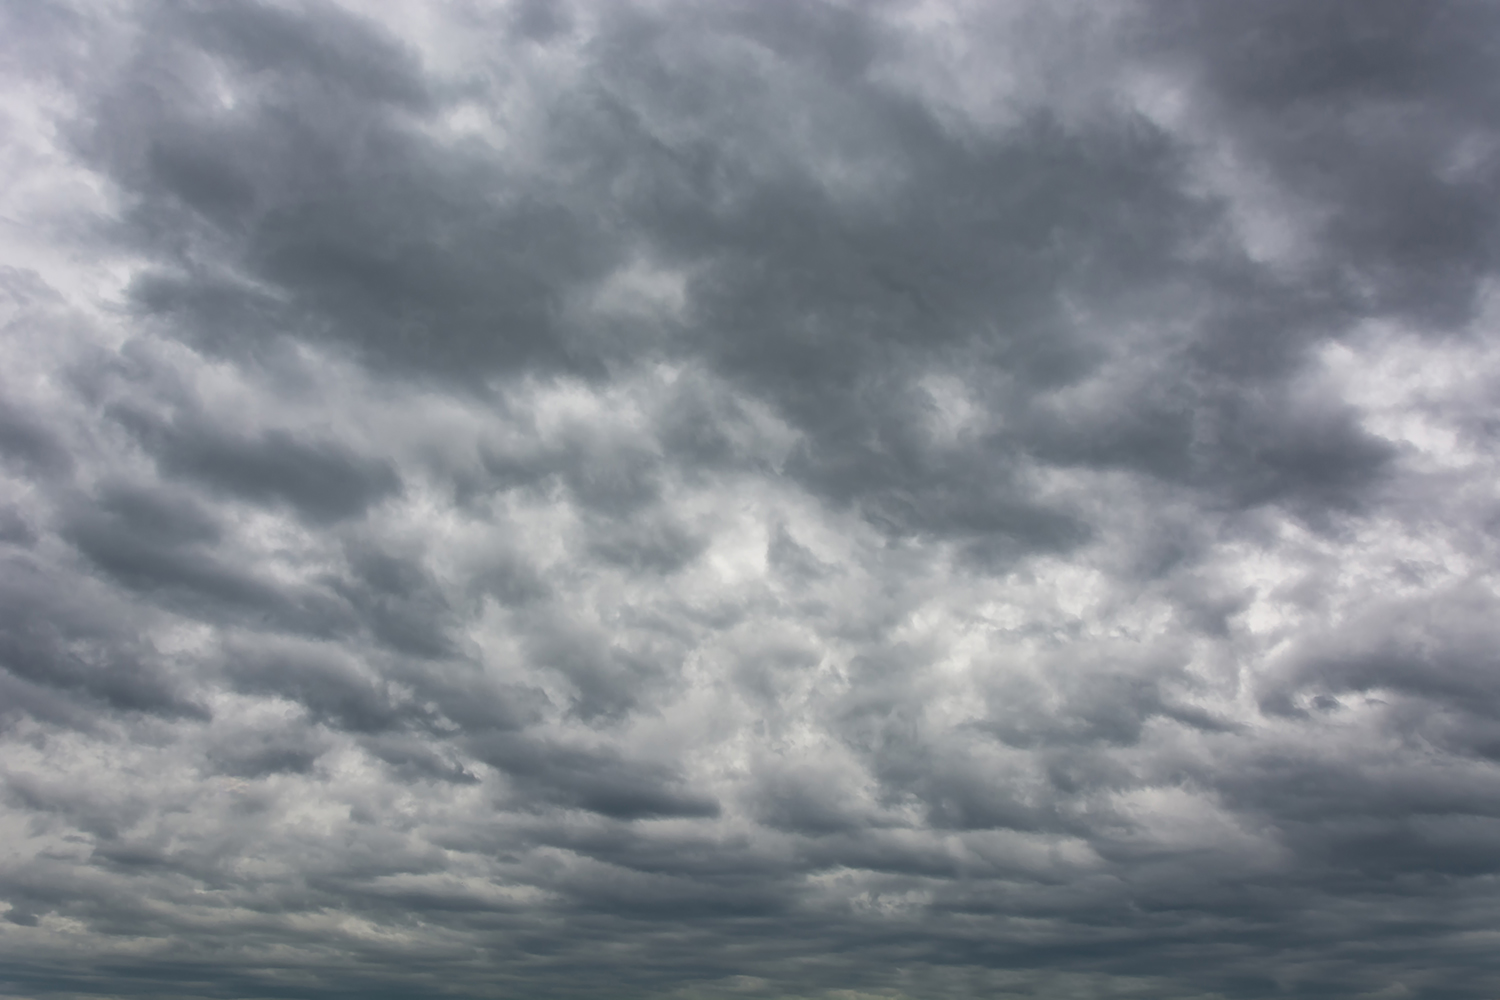
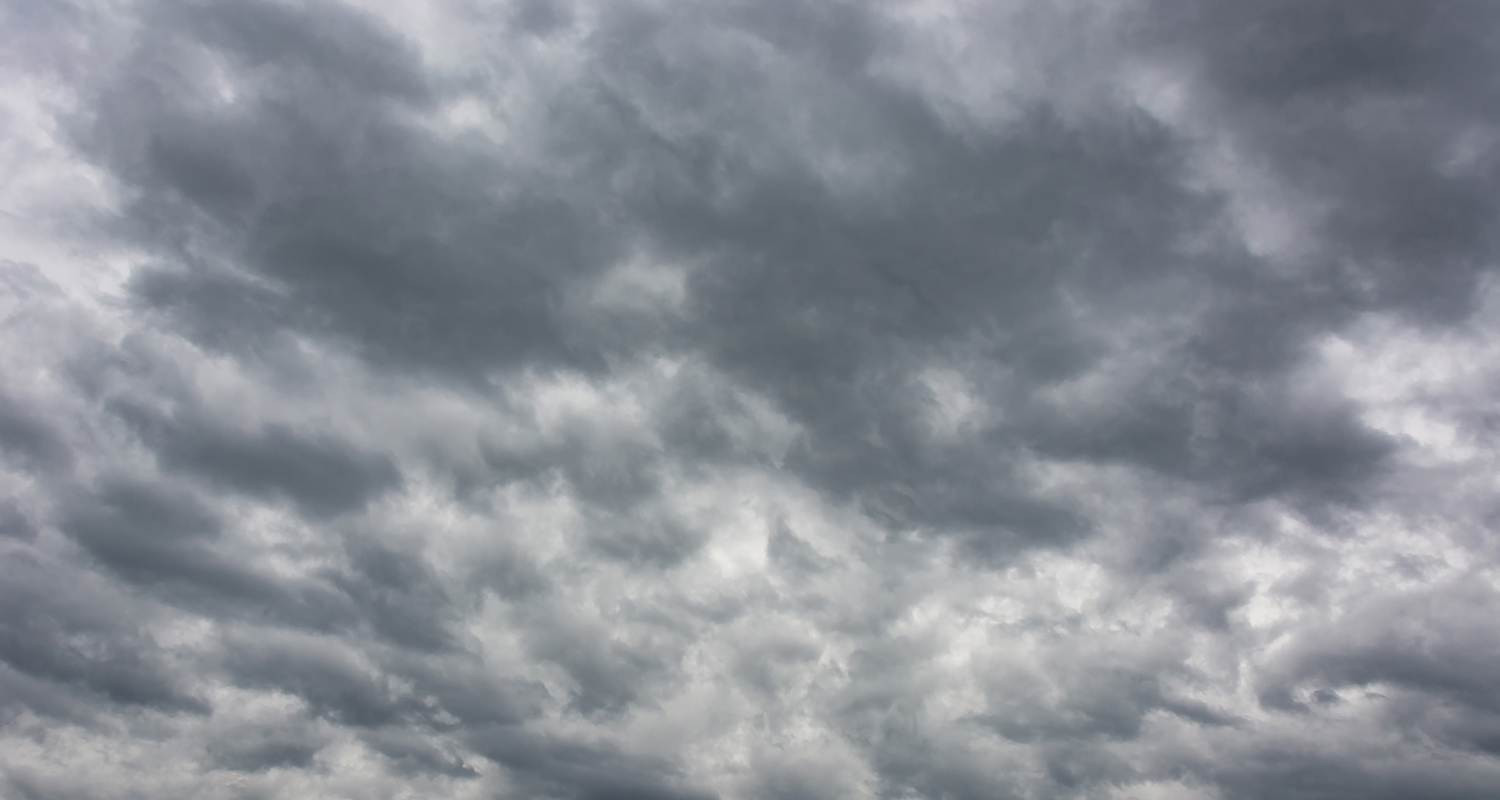
weather page data displayed and designed the page and dynamic image and background and animation

diff --git a/src/components/cityWeather/CityWeather.tsx b/src/components/cityWeather/CityWeather.tsx
@@ -2,32 +2,35 @@
 import { getFarenhiteToCelcius, millisecondsToTime } from '@/actions/getdata/getData';
 import shiny from "@/asstes/img/shiny.jpg"
 import cloudy from "@/asstes/img/cloudy.jpg"
-import breakcloudy from "@/asstes/img/breackcloudy.jpg"
-import React from 'react'
+import fewCloudes from "@/asstes/img/breackcloudy.jpg"
+import brokenCloude from "@/asstes/img/brokenCloude.jpg"
+import React, { useState } from 'react'
 import { FaTemperatureFull } from 'react-icons/fa6';
 import Image from 'next/image';
 
 const CityWeather = ({ weathers }: any) => {
-    console.log(weathers)
-    const { name, dt, weather, main }: any = weathers;
+    const [farenHite, setFarenhite] = useState(false)
+    const { name, dt, weather, main, wind, sys }: any = weathers;
     const { date, time }: any = millisecondsToTime(dt)
     // destructer temp data from main
-    const { temp, feels_like, temp_min, temp_max, grnd_level, pressure, humidity, sea_level
-
-    }: any = main;
+    const { temp, feels_like, temp_min, temp_max, grnd_level, pressure, humidity, sea_level }: any = main;
     const celciusTemp: any = getFarenhiteToCelcius(temp).toFixed(2)
     const feelikeTemp: any = getFarenhiteToCelcius(feels_like).toFixed(2)
     const mintemp: any = getFarenhiteToCelcius(temp_min).toFixed(2)
     const maximumTemp: any = getFarenhiteToCelcius(temp_max).toFixed(2)
+    // getting sky condition
+    const akyCondition: any = weather?.map((condition: any, idx: number) => {
+        return condition?.description.toLowerCase()
+    })
     return (
-        <section>
+        <section className={`h-screen pt-5 ${akyCondition[0] === "overcast clouds" ? "bg-gray-500" : akyCondition[0] === "broken clouds" ? "bg-slate-400" : akyCondition[0] === "few clouds" ? "bg-gray-300" : "white"}`}>
             <div className='container mx-auto'>
-                <div className='border flex justify-between px-2'>
-                    <h1 className='text-center sm:text-lg md:text-xl lg:text-2xl font-bold'>City: <span className='text-indigo-800'>{name}</span></h1>
+                <div className='flex justify-evenly px-2 py-20 rounded-md weather-page'>
+                    <h1 className='text-center sm:text-lg md:text-xl lg:text-2xl font-bold'>City: <span className=''>{name}, {sys?.country}</span></h1>
                     <h2 className='md:text-xl font-semibold'>Date: {date}</h2>
                 </div>
-                <div className='grid sm:grid-cols-2 gap-5 mt-7 items-center'>
-                    <div className='flex justify-between items-center dm:w-8/12 p-3 border'>
+                <div className='flex gap-5 mt-12 items-center'>
+                    <div className='flex justify-between items-center md:w-7/12 p-2 md:p-4 bg-white bg-opacity-80 rounded-md'>
                         <div className='flex flex-col gap-4'>
                             <div className='flex'>
                                 <span className='text-2xl sm:text-4xl md:text-5xl lg:text-6xl'><FaTemperatureFull /></span>
@@ -36,28 +39,44 @@ const CityWeather = ({ weathers }: any) => {
                             <div>
                                 {
                                     weather?.map((condition: any, idx: number) => (
-                                        <div key={idx} className='flex gap-2 flex-col items-start'>
-                                            <div>
-                                                <h4 className=''>Sky: <span className='text-pink-600'>{condition?.main}</span></h4>
-                                                <h4 className=''>Sky: <span className='text-pink-600'>{condition?.description}</span></h4>
+                                        <div key={idx} className=''>
+                                            <div className='flex gap-2 justify-between items-center'>
+                                                <div>
+                                                    <h4 className=''>Sky: <span className='text-indigo-700'>{condition?.main}</span></h4>
+                                                    <h4 className=''>Description: <span className='text-indigo-700'>{condition?.description}</span></h4>
+                                                </div>
+                                                <Image src={`https://openweathermap.org/img/wn/${condition?.icon}.png`} alt="weather" className='w-[100px] animate-pulse' width={50} height={50} />
                                             </div>
-                                            <Image src="https://openweathermap.org/img/wn/10d@2x.png" alt="weather" width={10} height={10} />
+                                            <div>
+                                                <h1 className='md:text-xl font-semibold'>Wind</h1>
+                                                <div className='flex justify-between gap-3'>
+                                                    <h5>Speed: <span className='text-indigo-700 font-semibold'>{wind?.speed}</span></h5>
+                                                    <h5>Deg: <span className='text-indigo-700 font-semibold'>{wind?.deg}</span></h5>
+                                                    <h5>Gust: <span className='text-indigo-700 font-semibold'>{wind?.gust}</span></h5>
+                                                </div>
+                                            </div>
                                         </div>
                                     ))
                                 }
                             </div>
                         </div>
-                        <div>
-                            <h4>Feel like: {feelikeTemp} <sup>o</sup></h4>
-                            <h4>Maximum Temp: {maximumTemp} <sup>o</sup></h4>
-                            <h4>Minimum Temp: {mintemp} <sup>o</sup></h4>
-                            <h4>grnd_level: {grnd_level} </h4>
-                            <h4>pressure: {pressure} </h4>
-                            <h4>humidity: {humidity} </h4>
-                            <h4>sea_level: {sea_level} </h4>
+                        <div className='space-y-3'>
+                            <h4 className='font-semibold'>Feel like: <span className='font-semibold text-indigo-600'>{feelikeTemp}<sup>o</sup></span> </h4>
+                            <h4 className='font-semibold'>Maximum Temp: <span className='font-semibold text-indigo-600'>{maximumTemp}<sup>o</sup></span> </h4>
+                            <h4 className='font-semibold'>Minimum Temp: <span className='font-semibold text-indigo-600'>{mintemp}<sup>o</sup></span> </h4>
+                            <h4 className='font-semibold'>grnd_level: <span className='font-semibold text-indigo-600'>{grnd_level}</span> </h4>
+                            <h4 className='font-semibold'>pressure: <span className='font-semibold text-indigo-600'>{pressure}</span> </h4>
+                            <h4 className='font-semibold'>humidity: <span className='font-semibold text-indigo-600'>{humidity}</span> </h4>
+                            <h4 className='font-semibold'>sea_level: <span className='font-semibold text-indigo-600'>{sea_level}</span> </h4>
                         </div>
                     </div>
-                    <div className='md:w-4/12'></div>
+                    <div className='flex-1 relative'>
+                        <Image src={akyCondition[0] === "overcast clouds" ? cloudy : akyCondition[0] === "few clouds" ? fewCloudes : akyCondition[0] === "broken clouds" ? brokenCloude : shiny} alt={akyCondition[0]} width={500} height={200} className='w-full rounded-md animate-pulse' style={{ animationDelay: "4s", animationDuration: "3s" }} />
+                        <h2 className='text-white font-bold sm:text-xl md:text-xl absolute bottom-7 left-[20%]'>Sky condition</h2>
+                    </div>
+                </div>
+                <div className='mt-10 text-center'>
+                    <button className='bg-indigo-600 text-white px-2 py-1' onClick={() => setFarenhite(!farenHite)}>Switch to Farenhite</button>
                 </div>
             </div>
         </section>

diff --git a/src/app/[cityid]/page.tsx b/src/app/[cityid]/page.tsx
@@ -17,13 +17,7 @@ const page = async ({ params }: any) => {
     const weatherInfo: any = await getWeather(latLon);
     return (
         <main>
-            <section className='h-screen flex justify-center mt-5'>
-                <div className="container mx-auto">
-                    <div>
-                        <CityWeather weathers={weatherInfo}></CityWeather>
-                    </div>
-                </div>
-            </section>
+            <CityWeather weathers={weatherInfo}></CityWeather>
         </main>
 
     )

diff --git a/src/app/globals.css b/src/app/globals.css
@@ -11,3 +11,13 @@
     background-size: 100% 100%;
     color: white;
 }
+
+.weather-page {
+    background-image:
+        linear-gradient(to bottom, #00000040, #00000040),
+        url('../asstes/img/weatherbg.jpg');
+    background-position: center;
+    background-repeat: no-repeat;
+    background-size: cover;
+    color: white;
+}
